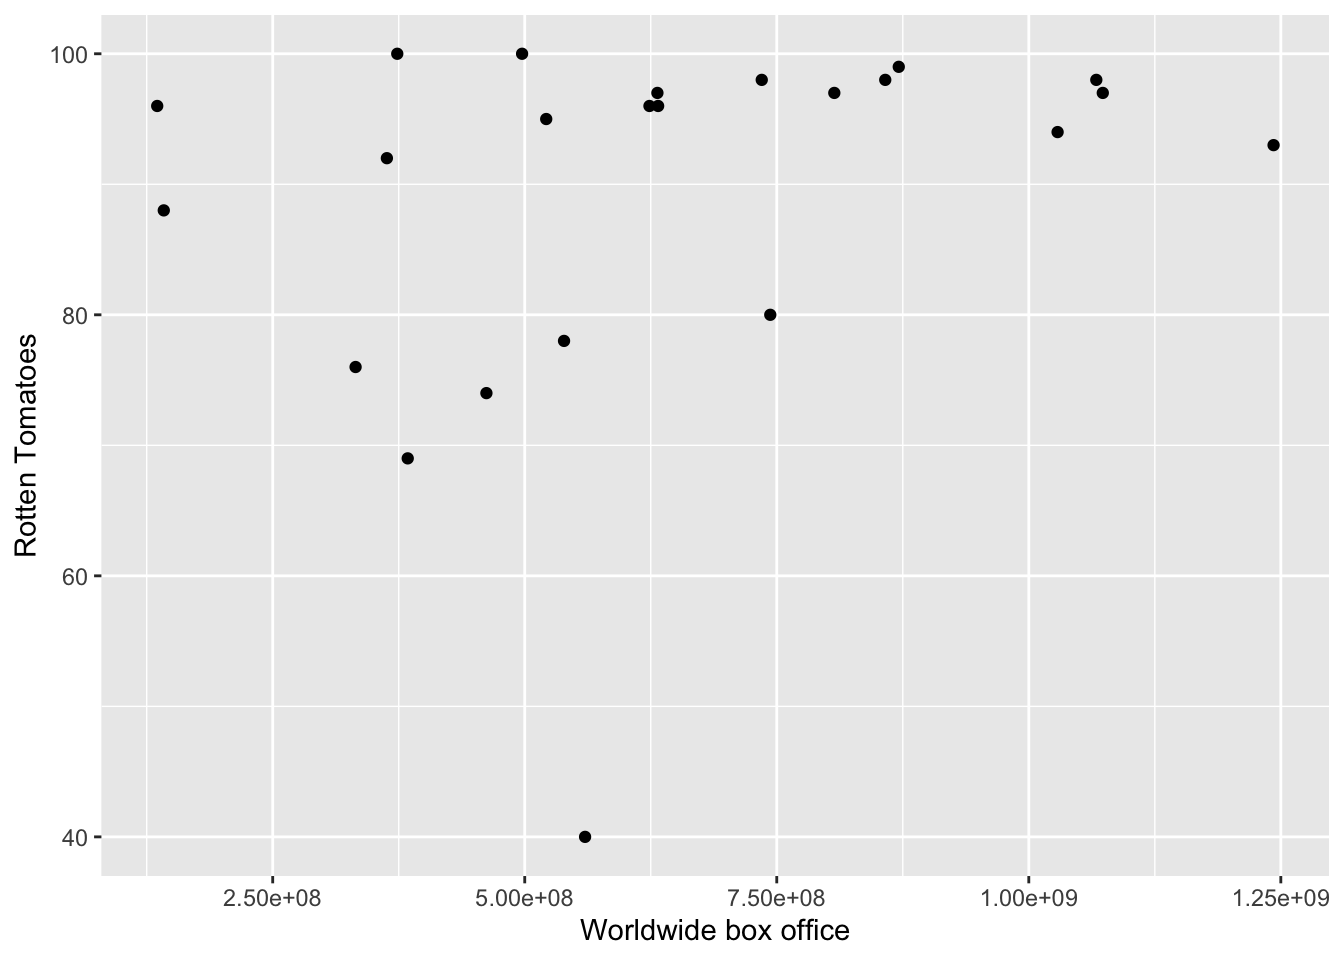
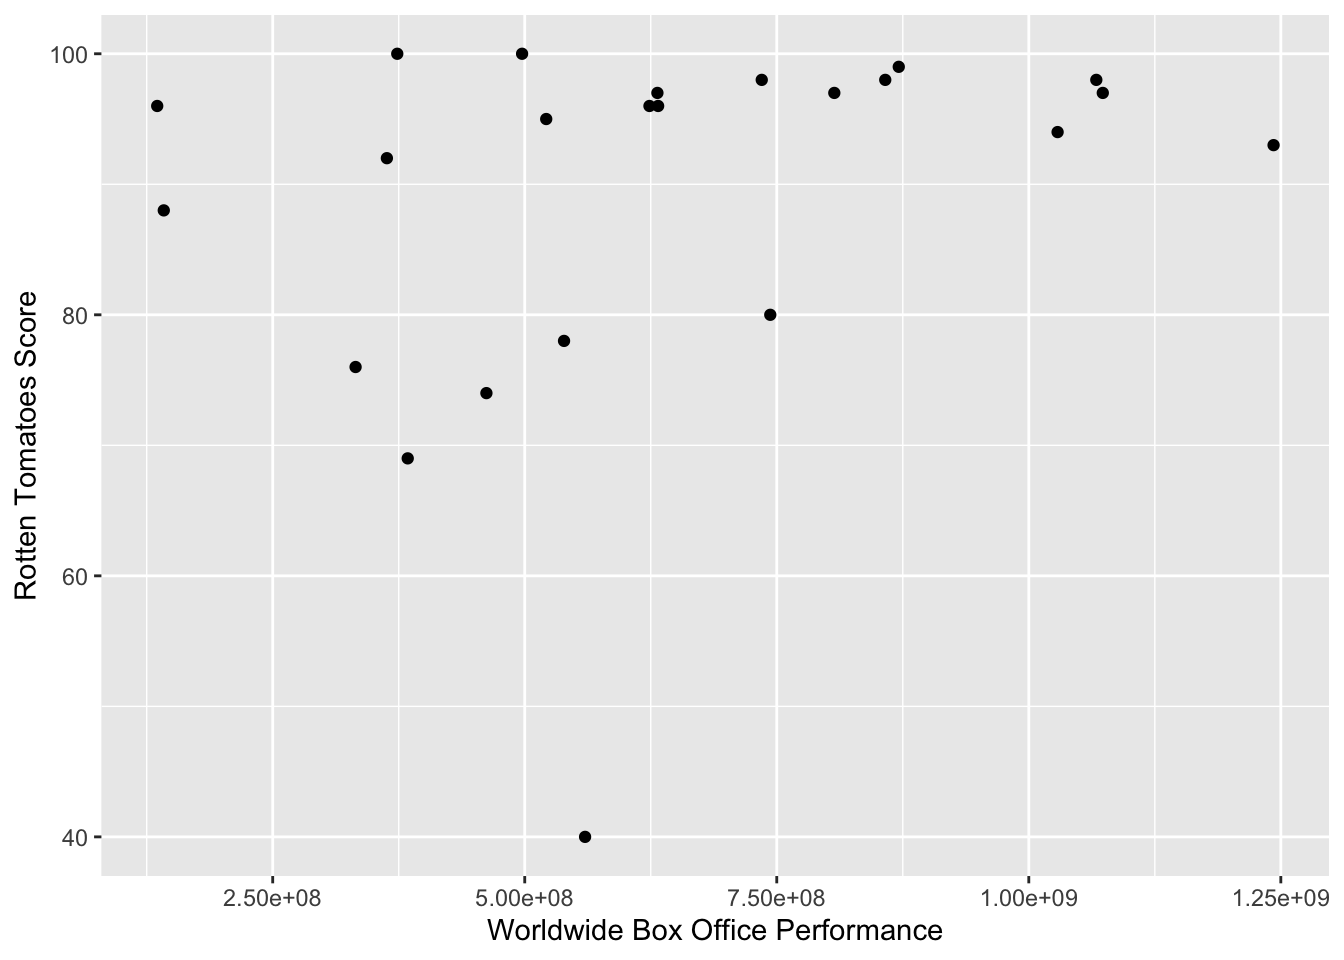
completed portfolio piece 1

Changed region(s): [[0.375, 0.9375, 0.6875, 1.0], [0.0, 0.3125, 0.0312, 0.625]]

diff --git a/docs/p01.html b/docs/p01.html
@@ -295,21 +295,51 @@ $(document).ready(function () {
 </div>
 
 
-<div id="goal" class="section level3">
-<h3>Goal</h3>
+<div id="overview" class="section level2">
+<h2>Overview</h2>
+<div id="goal" class="section level4">
+<h4>Goal:</h4>
+<p>From a collection of datasets about Pixar movies, I aim to answer a
+series of questions about the movies’ performance in the box office,
+audience reviews, and critic reviews. Research questions are distributed
+throughout the document below. Personally, my goal is to get more
+practice using R to visualize data with corresponding statistical
+tests.</p>
 </div>
-<div id="data" class="section level3">
-<h3>Data</h3>
+<div id="data" class="section level4">
+<h4>Data:</h4>
+<p>The datasets are from Tidy Tuesday and can be found at this link: <a
+href="https://github.com/rfordatascience/tidytuesday/blob/main/data/2025/2025-03-11/readme.md"
+class="uri">https://github.com/rfordatascience/tidytuesday/blob/main/data/2025/2025-03-11/readme.md</a></p>
+<p>Each dataset contains the same list of Pixar films.</p>
+<p>‘pixar_films’ contains the following variables: release date, run
+time, and rating (ex. G, PG, etc.)</p>
+<p>‘public_response’ contains the following variables: rotten tomatoes
+rating, metacritic rating, cinema score, and critics’ choice rating</p>
+<p>‘box_office’ contains the following variables: budget, box office
+performance in the US and Canada, box office performance in other
+countries, and worldwide box office performance</p>
 </div>
-<div id="product" class="section level3">
-<h3>Product</h3>
+<div id="product" class="section level4">
+<h4>Product:</h4>
+<p>I’ve included a series of tables and scatterplots below to answer my
+research questions.</p>
 </div>
-<div id="interpretation" class="section level3">
-<h3>Interpretation</h3>
+<div id="interpretation" class="section level4">
+<h4>Interpretation:</h4>
+<p>Interpretations of the results are included throughout the document,
+concluding with my main takeaways.</p>
+<hr />
+</div>
+<div id="loading-packages" class="section level3">
+<h3>Loading packages</h3>
 <pre class="r"><code>library(tidyverse) 
 library(tidyr)
 library(tidytuesdayR)
 library(pixarfilms)</code></pre>
+</div>
+<div id="reading-in-data" class="section level3">
+<h3>Reading in data</h3>
 <pre class="r"><code>tuesdata &lt;- tidytuesdayR::tt_load(&#39;2025-03-11&#39;)</code></pre>
 <pre><code>## ---- Compiling #TidyTuesday Information for 2025-03-11 ----
 ## --- There are 2 files available ---
@@ -322,6 +352,7 @@ library(pixarfilms)</code></pre>
 <pre class="r"><code>pixar_films &lt;- tuesdata$pixar_films
 public_response &lt;- tuesdata$public_response
 box_office &lt;- pixarfilms::box_office</code></pre>
+</div>
 </div>
 <div id="according-to-each-rating-system-which-pixar-movie-is-the-best"
 class="section level2">
@@ -343,6 +374,8 @@ class="section level2">
 ##  9 Toy Story 4                  97     1
 ## 10 Monsters, Inc.               96     1
 ## # ℹ 14 more rows</code></pre>
+<p>Toy Story and Toy Story 2 are tied for the highest Rotten Tomatoes
+score.</p>
 <pre class="r"><code>public_response %&gt;%
   count(film, metacritic) %&gt;%
   arrange(desc(metacritic))</code></pre>
@@ -360,6 +393,7 @@ class="section level2">
 ##  9 Up                      88     1
 ## 10 Toy Story 4             84     1
 ## # ℹ 14 more rows</code></pre>
+<p>Ratatouille had the highest Metacritic rating.</p>
 <pre class="r"><code>public_response %&gt;%
   count(film, critics_choice) %&gt;%
   arrange(desc(critics_choice))</code></pre>
@@ -377,6 +411,7 @@ class="section level2">
 ##  9 Ratatouille                91     1
 ## 10 WALL-E                     90     1
 ## # ℹ 14 more rows</code></pre>
+<p>Toy Story 2 had the highest Critics’ Choice score.</p>
 </div>
 <div id="do-audiences-and-critics-tend-to-agree" class="section level2">
 <h2>Do audiences and critics tend to agree?</h2>
@@ -390,7 +425,7 @@ class="section level2">
   geom_point() + 
   
   labs(x = &quot;Rotten Tomatoes Score&quot;,
-       y = &quot;Critic&#39;s Choice&quot;) </code></pre>
+       y = &quot;Critics&#39; Choice Score&quot;) </code></pre>
 <p><img src="p01_files/figure-html/scatter-RT-CC-1.png" width="672" /></p>
 <pre class="r"><code>cor.test(public_response$rotten_tomatoes, public_response$critics_choice)</code></pre>
 <pre><code>## 
@@ -404,6 +439,12 @@ class="section level2">
 ## sample estimates:
 ##       cor 
 ## 0.8521907</code></pre>
+<p>Rotten Tomatoes and Critics’ Choice scores are significantly
+positively correlated (r = .85, p &lt; .001), indicating that audiences
+and critics largely agree in their assessments of Pixar movies.</p>
+<p>One notable difference is that the lowest Rotten Tomatoes score (40,
+Cars 2) is considerably lower than the lowest Critics’ Choice score (66,
+Cars 3).</p>
 </div>
 <div id="which-pixar-movie-had-the-highest-budget"
 class="section level2">
@@ -425,6 +466,9 @@ class="section level2">
 ##  9 Cars 3              175000000     1
 ## 10 Coco                175000000     1
 ## # ℹ 14 more rows</code></pre>
+<p>Cars 2 had the highest budget, tied with Finding Dory, Incredibles 2,
+Monsters University, Toy Story 3, and Toy Story 4. (Interesting that
+these are all sequels!)</p>
 </div>
 <div id="which-pixar-movies-performed-the-best-at-the-box-office"
 class="section level2">
@@ -446,6 +490,8 @@ class="section level2">
 ##  9 Monsters University            268492764     1
 ## 10 The Incredibles                261441092     1
 ## # ℹ 14 more rows</code></pre>
+<p>The Incredibles 2 performed the best at the box office in the US and
+Canada.</p>
 <pre class="r"><code>box_office %&gt;%
   count(film, box_office_other) %&gt;%
   arrange(desc(box_office_other))</code></pre>
@@ -463,6 +509,8 @@ class="section level2">
 ##  9 Up                         442094918     1
 ## 10 Ratatouille                417280431     1
 ## # ℹ 14 more rows</code></pre>
+<p>Toy Story 3 performed the best at the box office in countries outside
+of the US and Canada.</p>
 <pre class="r"><code>box_office %&gt;%
   count(film, box_office_worldwide) %&gt;%
   arrange(desc(box_office_worldwide))</code></pre>
@@ -480,32 +528,18 @@ class="section level2">
 ##  9 Up                             735099082     1
 ## 10 Monsters, Inc.                 632316649     1
 ## # ℹ 14 more rows</code></pre>
+<p>The Incredibles 2 performed the best in the box office worldwide.</p>
 </div>
 <div
 id="do-higher-budget-movies-receive-higher-audience-ratings-critic-ratings"
 class="section level2">
 <h2>Do higher-budget movies receive higher audience ratings? Critic
 ratings?</h2>
+<div id="joining-box_office-and-public_response" class="section level4">
+<h4>Joining box_office and public_response</h4>
 <pre class="r"><code>box_office_ratings &lt;- full_join(box_office, public_response,
   by = &quot;film&quot;
-)
-box_office_ratings</code></pre>
-<pre><code>## # A tibble: 24 × 9
-##    film        budget box_office_us_canada box_office_other box_office_worldwide
-##    &lt;chr&gt;        &lt;dbl&gt;                &lt;dbl&gt;            &lt;dbl&gt;                &lt;dbl&gt;
-##  1 Toy Story   3   e7            191796233        181757800            373554033
-##  2 A Bug&#39;s Li… 1.20e8            162798565        200460294            363258859
-##  3 Toy Story 2 9   e7            245852179        251522597            497374776
-##  4 Monsters, … 1.15e8            289916256        342400393            632316649
-##  5 Finding Ne… 9.40e7            339714978        531300000            871014978
-##  6 The Incred… 9.2 e7            261441092        370165621            631606713
-##  7 Cars        1.20e8            244082982        217900167            461983149
-##  8 Ratatouille 1.5 e8            206445654        417280431            623726085
-##  9 WALL-E      1.80e8            223808164        297503696            521311860
-## 10 Up          1.75e8            293004164        442094918            735099082
-## # ℹ 14 more rows
-## # ℹ 4 more variables: rotten_tomatoes &lt;dbl&gt;, metacritic &lt;dbl&gt;,
-## #   cinema_score &lt;chr&gt;, critics_choice &lt;dbl&gt;</code></pre>
+)</code></pre>
 <pre class="r"><code>ggplot(
   data = box_office_ratings,
   mapping = aes(
@@ -540,7 +574,7 @@ box_office_ratings</code></pre>
   geom_point() + 
   
   labs(x = &quot;Budget&quot;,
-       y = &quot;Critic&#39;s Choice&quot;) </code></pre>
+       y = &quot;Critics&#39; Choice Score&quot;) </code></pre>
 <p><img src="p01_files/figure-html/scatter-budget-CC-1.png" width="672" /></p>
 <pre class="r"><code>cor.test(box_office_ratings$budget, box_office_ratings$critics_choice)</code></pre>
 <pre><code>## 
@@ -554,11 +588,15 @@ box_office_ratings</code></pre>
 ## sample estimates:
 ##        cor 
 ## -0.3844311</code></pre>
+<p>Budget is not significantly correlated with audience ratings or
+critic ratings, so spending more on a movie does not seem to predict a
+more positive or negative public response.</p>
+</div>
 </div>
 <div
-id="do-box-office-numbers-correspond-with-audience-ratings-critics-ratings"
+id="do-box-office-numbers-correspond-with-audience-ratings-critic-ratings"
 class="section level2">
-<h2>Do box office numbers correspond with audience ratings? Critics’
+<h2>Do box office numbers correspond with audience ratings? Critic
 ratings?</h2>
 <pre class="r"><code>ggplot(
   data = box_office_ratings,
@@ -569,9 +607,21 @@ ratings?</h2>
 ) +
   geom_point() + 
   
-  labs(x = &quot;Worldwide box office&quot;,
-       y = &quot;Rotten Tomatoes&quot;) </code></pre>
+  labs(x = &quot;Worldwide Box Office Performance&quot;,
+       y = &quot;Rotten Tomatoes Score&quot;) </code></pre>
 <p><img src="p01_files/figure-html/scatter-BO-RT-1.png" width="672" /></p>
+<pre class="r"><code>cor.test(box_office_ratings$box_office_worldwide, box_office_ratings$rotten_tomatoes)</code></pre>
+<pre><code>## 
+##  Pearson&#39;s product-moment correlation
+## 
+## data:  box_office_ratings$box_office_worldwide and box_office_ratings$rotten_tomatoes
+## t = 1.2769, df = 21, p-value = 0.2156
+## alternative hypothesis: true correlation is not equal to 0
+## 95 percent confidence interval:
+##  -0.1616814  0.6128106
+## sample estimates:
+##      cor 
+## 0.268409</code></pre>
 <pre class="r"><code>ggplot(
   data = box_office_ratings,
   mapping = aes(
@@ -581,9 +631,101 @@ ratings?</h2>
 ) +
   geom_point() + 
   
-  labs(x = &quot;Worldwide box office&quot;,
-       y = &quot;Critics&#39; Choice&quot;) </code></pre>
+  labs(x = &quot;Worldwide Box Office Performance&quot;,
+       y = &quot;Critics&#39; Choice Score&quot;) </code></pre>
 <p><img src="p01_files/figure-html/scatter-BO-CC-1.png" width="672" /></p>
+<pre class="r"><code>cor.test(box_office_ratings$box_office_worldwide, box_office_ratings$critics_choice)</code></pre>
+<pre><code>## 
+##  Pearson&#39;s product-moment correlation
+## 
+## data:  box_office_ratings$box_office_worldwide and box_office_ratings$critics_choice
+## t = 1.7524, df = 19, p-value = 0.09583
+## alternative hypothesis: true correlation is not equal to 0
+## 95 percent confidence interval:
+##  -0.06993456  0.69309467
+## sample estimates:
+##       cor 
+## 0.3730134</code></pre>
+<p>Worldwide box office numbers are not significantly correlated with
+audience or critic ratings, indicating that popularity does not
+necessarily predict positive ratings.</p>
+</div>
+<div id="do-longer-movies-perform-better-with-audiences-with-critics"
+class="section level2">
+<h2>Do longer movies perform better with audiences? With critics?</h2>
+<div id="joining-pixar_films-and-public_response"
+class="section level4">
+<h4>Joining pixar_films and public_response</h4>
+<pre class="r"><code>films_ratings &lt;- full_join(pixar_films, public_response,
+  by = &quot;film&quot;
+)</code></pre>
+<pre class="r"><code>ggplot(
+  data = films_ratings,
+  mapping = aes(
+    x = run_time,
+    y = rotten_tomatoes
+  )
+) +
+  geom_point() + 
+  
+  labs(x = &quot;Run Time&quot;,
+       y = &quot;Rotten Tomatoes Score&quot;) </code></pre>
+<p><img src="p01_files/figure-html/scatter-runtime-RT-1.png" width="672" /></p>
+<pre class="r"><code>cor.test(films_ratings$run_time, films_ratings$rotten_tomatoes)</code></pre>
+<pre><code>## 
+##  Pearson&#39;s product-moment correlation
+## 
+## data:  films_ratings$run_time and films_ratings$rotten_tomatoes
+## t = -1.0295, df = 21, p-value = 0.315
+## alternative hypothesis: true correlation is not equal to 0
+## 95 percent confidence interval:
+##  -0.5790755  0.2121789
+## sample estimates:
+##        cor 
+## -0.2191941</code></pre>
+<pre class="r"><code>ggplot(
+  data = films_ratings,
+  mapping = aes(
+    x = run_time,
+    y = critics_choice
+  )
+) +
+  geom_point() + 
+  
+  labs(x = &quot;Run Time&quot;,
+       y = &quot;Critics&#39; Choice Score&quot;) </code></pre>
+<p><img src="p01_files/figure-html/scatter-runtime-CC-1.png" width="672" /></p>
+<pre class="r"><code>cor.test(films_ratings$run_time, films_ratings$critics_choice)</code></pre>
+<pre><code>## 
+##  Pearson&#39;s product-moment correlation
+## 
+## data:  films_ratings$run_time and films_ratings$critics_choice
+## t = -0.56724, df = 19, p-value = 0.5772
+## alternative hypothesis: true correlation is not equal to 0
+## 95 percent confidence interval:
+##  -0.5311437  0.3204953
+## sample estimates:
+##        cor 
+## -0.1290454</code></pre>
+<p>The length of a movie is not significantly correlated with audience
+or critic ratings.</p>
+</div>
+</div>
+<div id="main-takeaways" class="section level2">
+<h2>Main Takeaways</h2>
+<ul>
+<li><p>Broadly, audiences and critics tend to rate Pixar movies
+similarly.</p></li>
+<li><p>Budget, box office performance, and run time are not
+significantly correlated with audience or critic ratings of Pixar
+movies.</p></li>
+<li><p>I was surprised that box office numbers were not more closely
+related to audience ratings.</p></li>
+<li><p>As I continue practicing exploratory data analysis in my
+portfolio, I hope to create more complex visualizations and to get more
+practice cleaning data. (Thanks to tidy tuesday, I didn’t have to do
+much to work with these Pixar datasets!)</p></li>
+</ul>
 </div>
 
 
